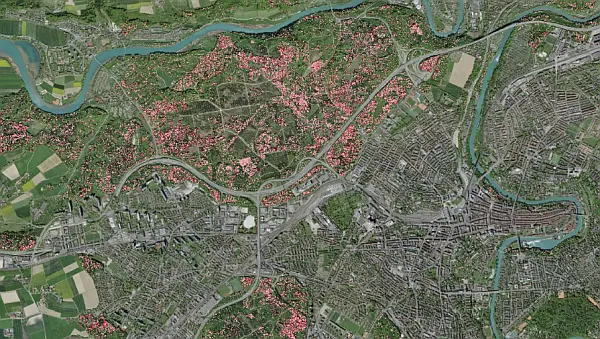
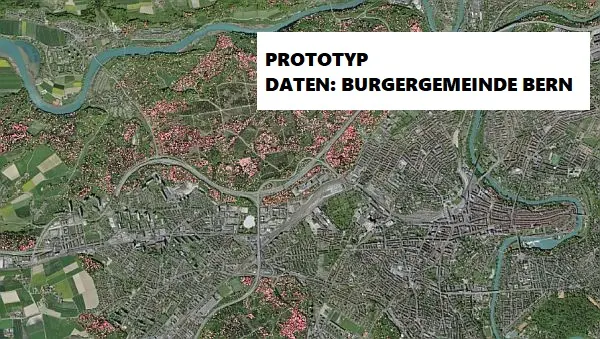
feat:add prototype hint

diff --git a/webapp/src/utils/homepage_util.js b/webapp/src/utils/homepage_util.js
@@ -70,7 +70,8 @@ const homepageUtil = {
         title: "Hinweiskarten zur Verjüngung",
         subtitle: "Geodaten: Hannes Horneber, HAFL",
         description:
-          "Ergänzend zu Vegetationshöhenmodellen zeigt diese Hinweiskarte das mögliche Vorhandensein von Vegetation unter Schirm.",
+          "Ergänzend zu Vegetationshöhenmodellen zeigt diese Hinweiskarte das mögliche Vorhandensein von Vegetation unter Schirm." +
+          "<br /><strong>Prototyp: Bisher nur Daten Burgergemeinde Bern. Wird noch erweitert um die Bereiche der swissSurface3D Daten.</strong>",
         route: "/verjuengung",
         linktext: "zum viewer"
       },
